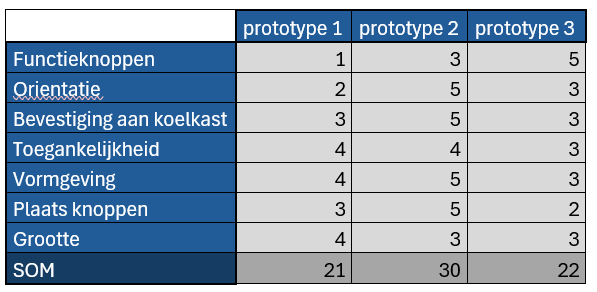
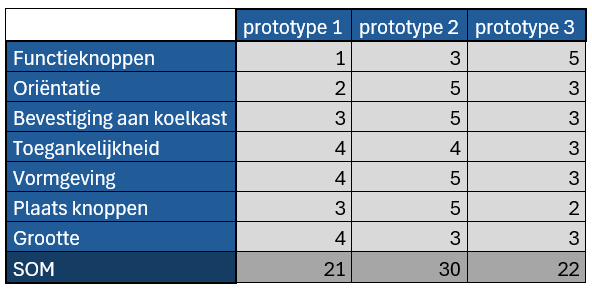
verwijdereninsturcties

Changed region(s): [[0.0, 0.0, 1.0, 0.9931], [0.0304, 0.4655, 0.2736, 0.5586]]

diff --git a/README.md b/README.md
@@ -13,13 +13,6 @@ Het efficiënt gebruiken van de koelkast speelt een grote rol in de zelfstandigh
 Deze problematiek wensen we aan te pakken met een slimme koelkast add-on. Deze dient om de samenwerking tussen de verschillende huisgenoten/zorgverleners te bevorderen. Zo kunnen producten in of uit het systeem gehaald worden en worden er vaste plaatsen toegewezen voor elk soort product. Ook worden de houdbaarheidsdata in het systeem bijgehouden. Zo kan vervolgens aan een spraakassistent vragen gesteld worden over de inhoud van de koelkast. 
 Bv. “Ik heb dorst, wat kan ik drinken?” en “Zijn er producten die bijna over datum gaan?” 
 
-Max 200 woorden. Beschrijf je project in het kort, waarbij je deze vragen zeker beantwoordt: 
-
-- Wat is het probleem?
-- Hoe heb je dit onderzocht?
-- Wat is jouw oplossing?
-- Hoe lost jouw oplossing het probleem op?
-- Hero sketch/render/image, vb.
 <p align="center">
   <img src="img\DSC_0599.JPG" width="100%">
 </p>
@@ -28,10 +21,6 @@ Max 200 woorden. Beschrijf je project in het kort, waarbij je deze vragen zeker 
 Het efficiënt gebruiken van de koelkast is essentieel voor de zelfstandigheid van blinden en slechtzienden, maar blijft in de praktijk vaak problematisch. Onvoldoende communicatie met huisgenoten en zorgverleners, het niet respecteren van de ordening en het moeilijk kunnen controleren van houdbaarheidsdata zorgen geregeld voor verwarring en frustratie. Deze knelpunten kwamen ook duidelijk naar voren in een onlinebevraging binnen verschillende Facebookgroepen voor blinden en slechtzienden.
 Dit project heeft als doel het ontwikkelen van een slimme koelkast add-on die deze problemen vermindert en de samenwerking binnen het huishouden ondersteunt. Producten kunnen in het systeem worden geregistreerd, vaste plaatsen worden toegewezen en houdbaarheidsdata worden bijgehouden. Via een spraakassistent kan de gebruiker eenvoudig informatie opvragen over de inhoud van de koelkast, zoals beschikbare dranken of producten die bijna vervallen.
 De oplossing richt zich op zelfstandig wonende blinden en slechtzienden die begeleid worden door een familielid of een professional. De add-on moet gebruiksvriendelijk, betaalbaar en privacyvriendelijk zijn en fungeert als ondersteuning, niet als vervanging van zorg.
-
-Max 300 woorden.
-Kader je project. Introduceer het probleem en jouw doelstellingen (inclusief boundary conditions).
-Maak gebruik van bronverwijzingen ([zie APA stijl](https://www.scribbr.nl/category/apa-stijl/)). Zoals bijvoorbeeld (Thomas & Ritter, 2022) [^1] .
 
 ## Inhoudstafel
 

diff --git a/docs/methodologie.md b/docs/methodologie.md
@@ -1,8 +1,4 @@
 ## Methodologie
-Max 400 woorden. Beschrijf je methodologie (enkel SEM1, zie les methodologie). Maak hierbij gebruik van een afbeelding om je tijdlijn weer te geven. Op deze tijdlijn moeten minimaal (1) een tijdsincatie te zien zijn (e.g. maanden of kwartalen), moeten fasen te zien (gekoppeld aan doelstellingen van die fase) zijn en moeten activiteiten te zien zijn (onderzoeksmethoden). Bekijk zeker ook eens [voorbeelden van eerdere jaren](https://github.com/basbaccarne/human-centered-design) (voor SEM1 betreft dit uiteraard slechts de helft van deze visualisaties). We boewen hier in het tweede semester op verder.   
-
-Neem hier ook een tijdlijn in op waarin we de evoluties van de prototypes kunnen zien.
-
 In dit project werd gewerkt volgens het ‘Triple Diamond’-ontwerpproces. Dit model bestaat uit drie hoofdfases: Discover, Define en Develop. Deze fases dienen als leidraad gedurende het project. In het eerste semester worden de eerste twee fases doorlopen.
 
 De eerste fase is de Discover-fase en vindt plaats tijdens de eerste zes weken van het semester. In deze fase is het doel om zich te oriënteren binnen het project en een probleem te identificeren dat aansluit bij de design challenge. Dit gebeurt aanvankelijk individueel. Het probleem wordt onderzocht via verschillende methodes. Eerst wordt een literatuurstudie en benchmarking uitgevoerd, waarna op basis van deze inzichten interviews met experts worden afgenomen. Aan het einde van deze fase wordt een concept pitch gehouden, waarbij een jury beslist welke projecten verder worden uitgewerkt.

diff --git a/docs/definition.md b/docs/definition.md
@@ -1,8 +1,6 @@
 ## Definition
 
 ### Doestellingen
-Wat wilde je bereiken in deze fase?    
-Welke deelvragen moesten hiervoor beantwoord worden?
 In deze fase van het onderzoek is het de bedoeling om van het gekozen probleem in de discovery fase een concreet concept te maken en het te valideren. Het hoofddoel was om het probleem beter af te bakenen en dieper onderzoek voeren naar de noden en eisen van de gebruikers.  Volgende onderdelen werden verder specifiek bestudeerd.
 
 -	Het gebruik van de koelkast in het dagelijkse leven van een visueel beperkte persoon en de problemen in dit proces.

diff --git a/docs/bom.md b/docs/bom.md
@@ -1,7 +1,4 @@
 ## Bill of materials
-- Welk materiaal heb je nodig voor de laatste versie van je prototype?
-- Maak voor componenten een overzicht met links naar aankooppagina en pricing
-- Wat hebben anderen nodig om dit te maken (zie vb. instructables)?
 
 ### Defenition:
 
